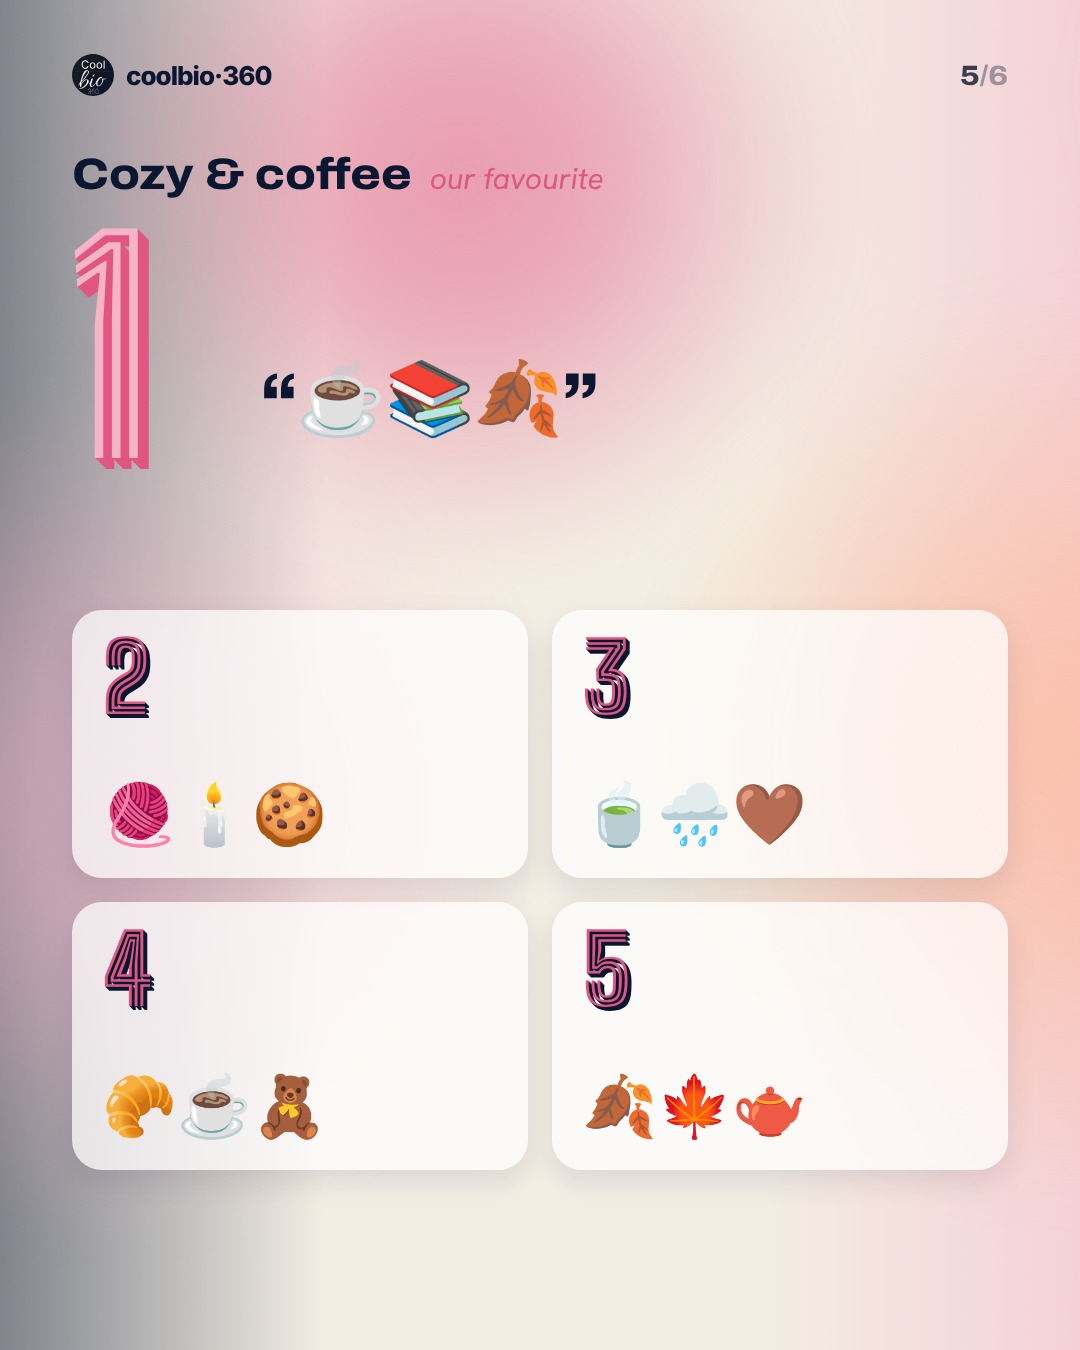
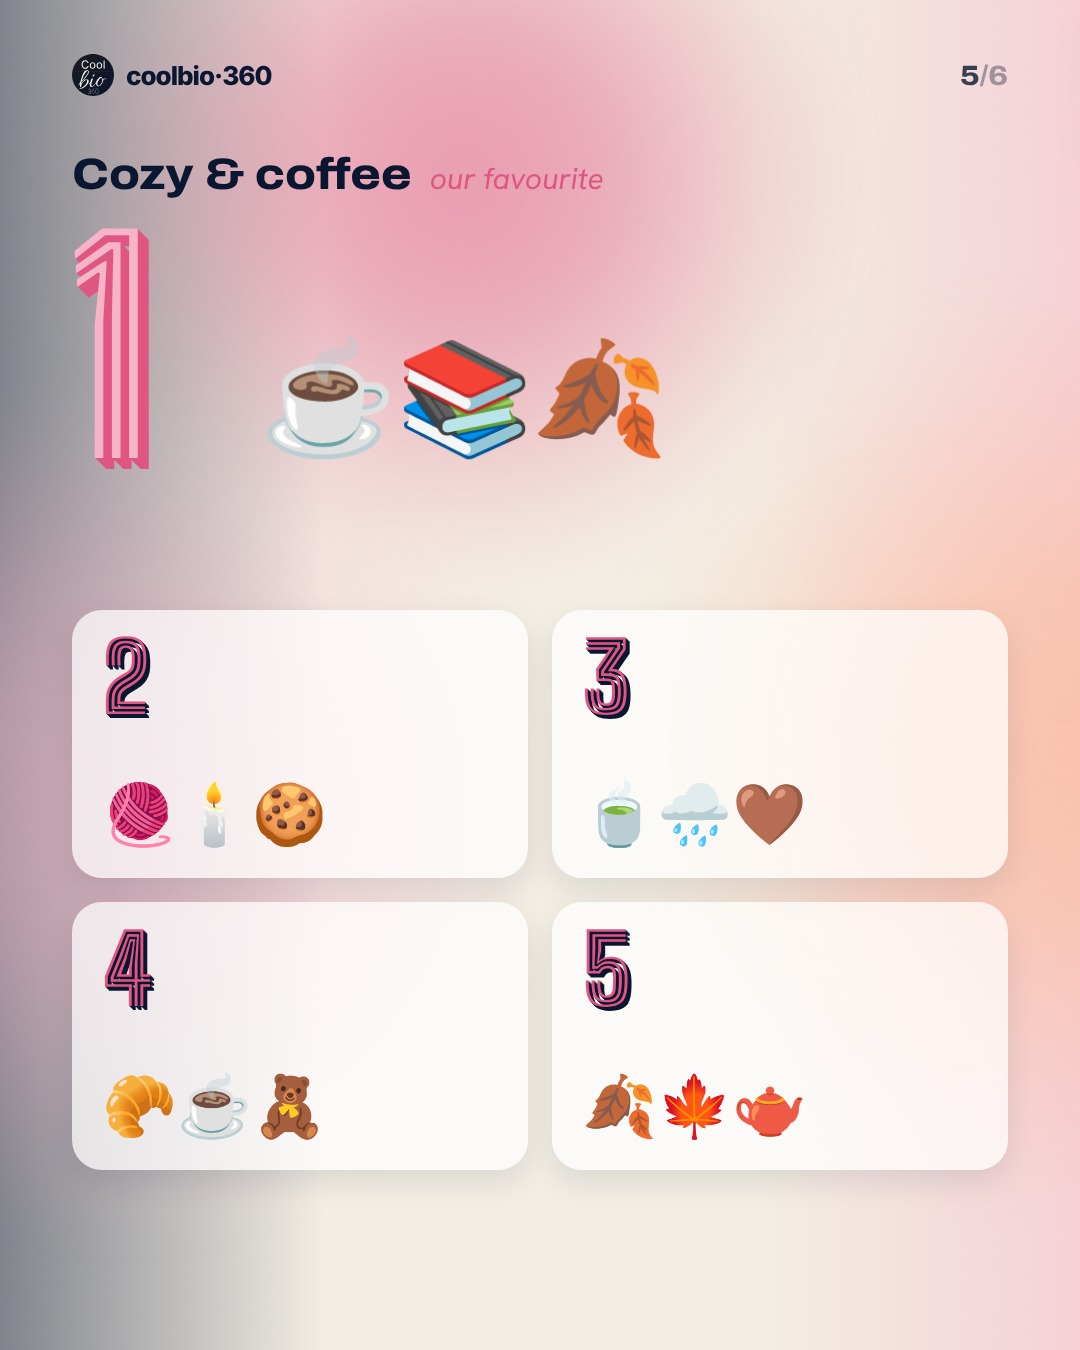
Emoji senza virgolette nella preferita
Claude-Session: https://claude.ai/code/session_01JL8RT6ZiLuziuRoxLPPpLq

Changed region(s): [[0.2444, 0.2489, 0.6111, 0.3422]]

diff --git a/tools/packs/gen6_base.py b/tools/packs/gen6_base.py
@@ -61,13 +61,13 @@ def stack(p,s,i,n,img):
 # B. crema: la preferita gigante + le altre in griglia
 def feature(p,s,i,n,img):
     A,A2=p['accent'],p['A2']; fs=s.get('fs',42); first,rest=s['bios'][0],s['bios'][1:]
-    emo=fs>=60; big=72 if emo else (64 if len(first)<34 else 56); small=60 if emo else (38 if max(map(len,rest))<34 else 34)
+    emo=fs>=60; big=110 if emo else (64 if len(first)<34 else 56); small=60 if emo else (38 if max(map(len,rest))<34 else 34)
     cards=''.join(f'''<div style="background:rgba(255,255,255,.72);border-radius:30px;padding:28px 30px;min-height:268px;display:flex;flex-direction:column;justify-content:space-between;gap:14px;box-shadow:0 12px 30px rgba(11,22,49,.10)">
 {num(k+2,84,f"linear-gradient(180deg,{A2},{NAVY})")}<div style="font-family:Inter,'Noto Color Emoji';font-size:{small}px;font-weight:600;color:{NAVY};line-height:1.22">{E(b)}</div></div>''' for k,b in enumerate(rest))
     b=f'''{orbs(p,i,n,.55)}{grain(.06)}{header(i,n,NAVY)}
 <div class="z" style="position:absolute;left:{M}px;right:{M}px;top:150px;display:flex;align-items:baseline;gap:18px"><span class="d" style="font-size:44px;color:{NAVY}">{E(s['h'])}</span><span class="sub" style="font-size:30px;color:{A2}">our favourite</span></div>
 <div class="z" style="position:absolute;left:{M-6}px;top:230px">{num(1,250,f"linear-gradient(180deg,{A},{A2})")}</div>
-<div class="z" style="position:absolute;left:260px;right:{M}px;top:230px;height:340px;display:flex;align-items:center"><div class="d" style="font-family:Archivo,'Noto Color Emoji';font-size:{big}px;line-height:1.05;letter-spacing:-1.5px;color:{NAVY}">“{E(first)}”</div></div>
+<div class="z" style="position:absolute;left:260px;right:{M}px;top:230px;height:340px;display:flex;align-items:center"><div class="d" style="font-family:Archivo,'Noto Color Emoji';font-size:{big}px;line-height:1.05;letter-spacing:-1.5px;color:{NAVY}">{E(first) if emo else "“"+E(first)+"”"}</div></div>
 <div class="z" style="position:absolute;left:{M}px;right:{M}px;top:610px;display:grid;grid-template-columns:1fr 1fr;gap:24px">{cards}</div>
 {progress(i,n,NAVY,'rgba(11,22,49,.12)')}'''
     return page(b,f'linear-gradient(165deg,{CREAM} 0%,{CREAM} 45%,{A}66 100%)')
